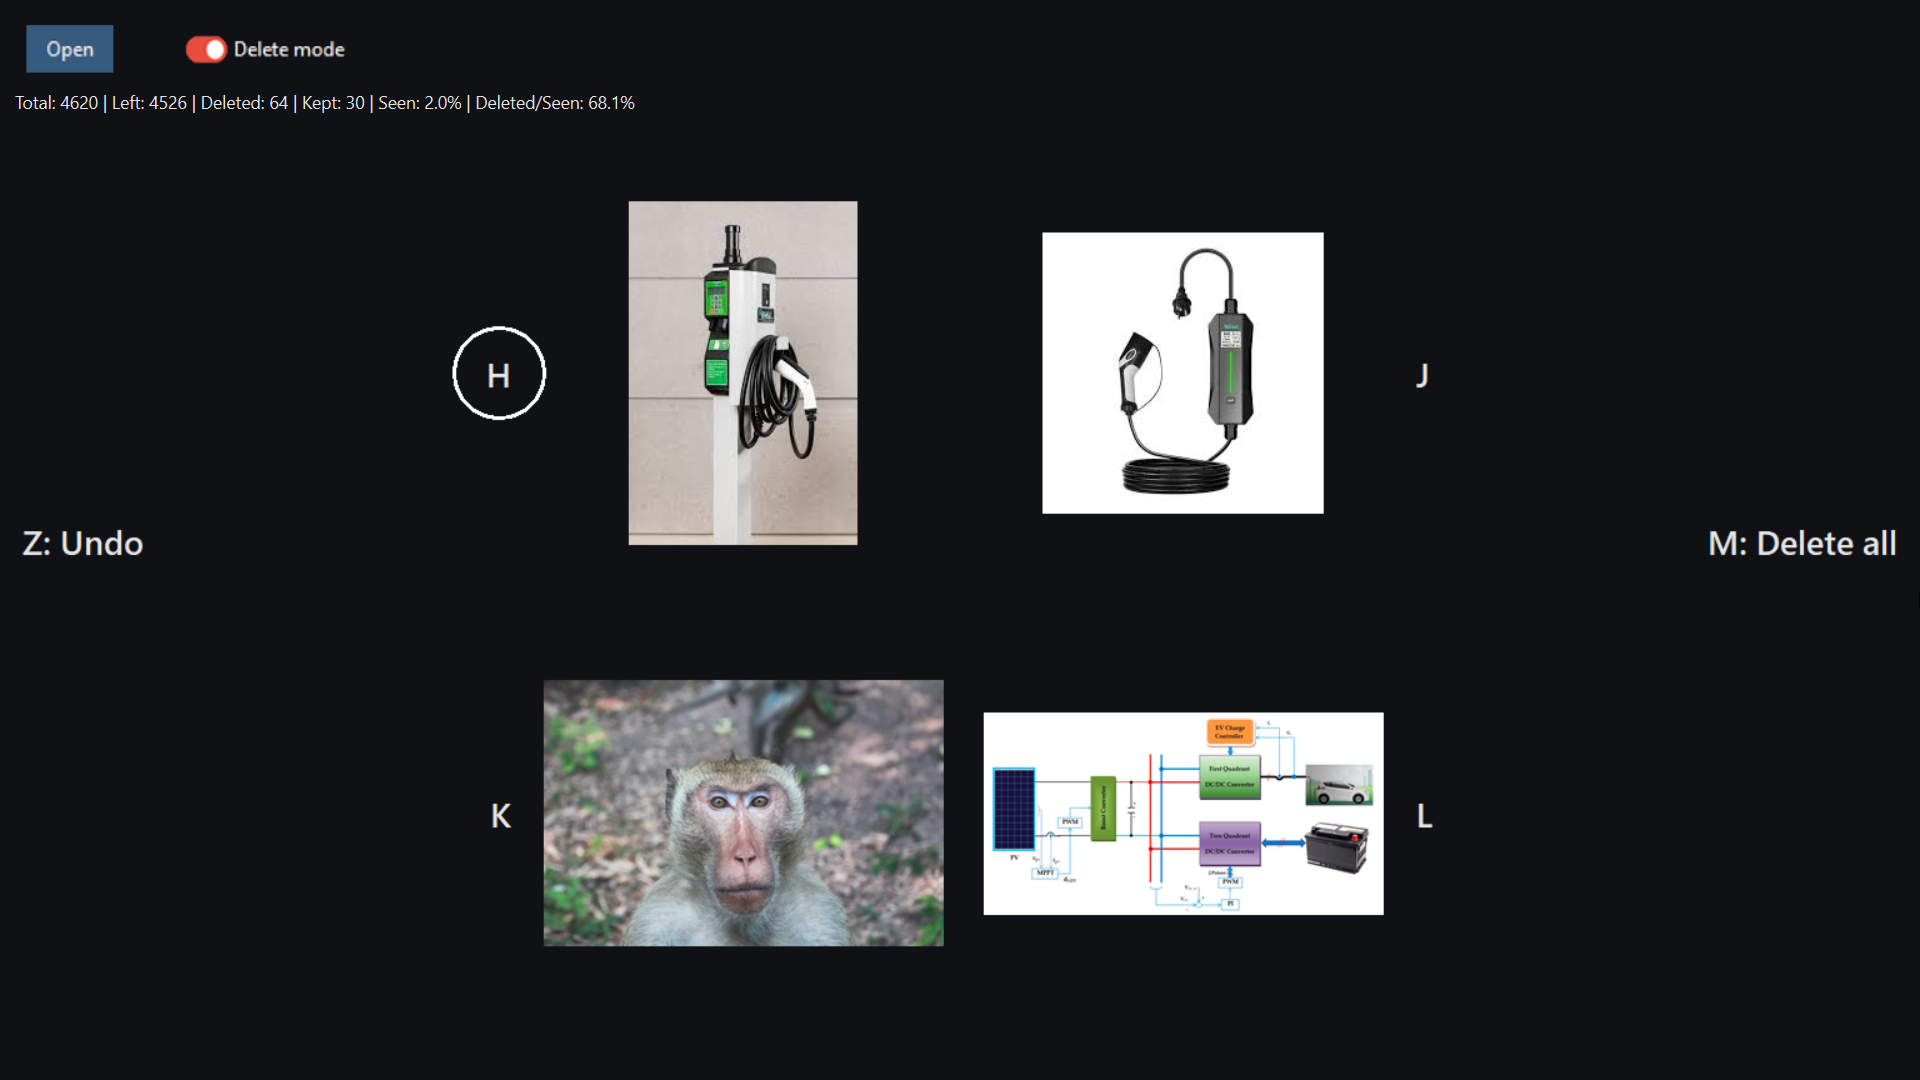
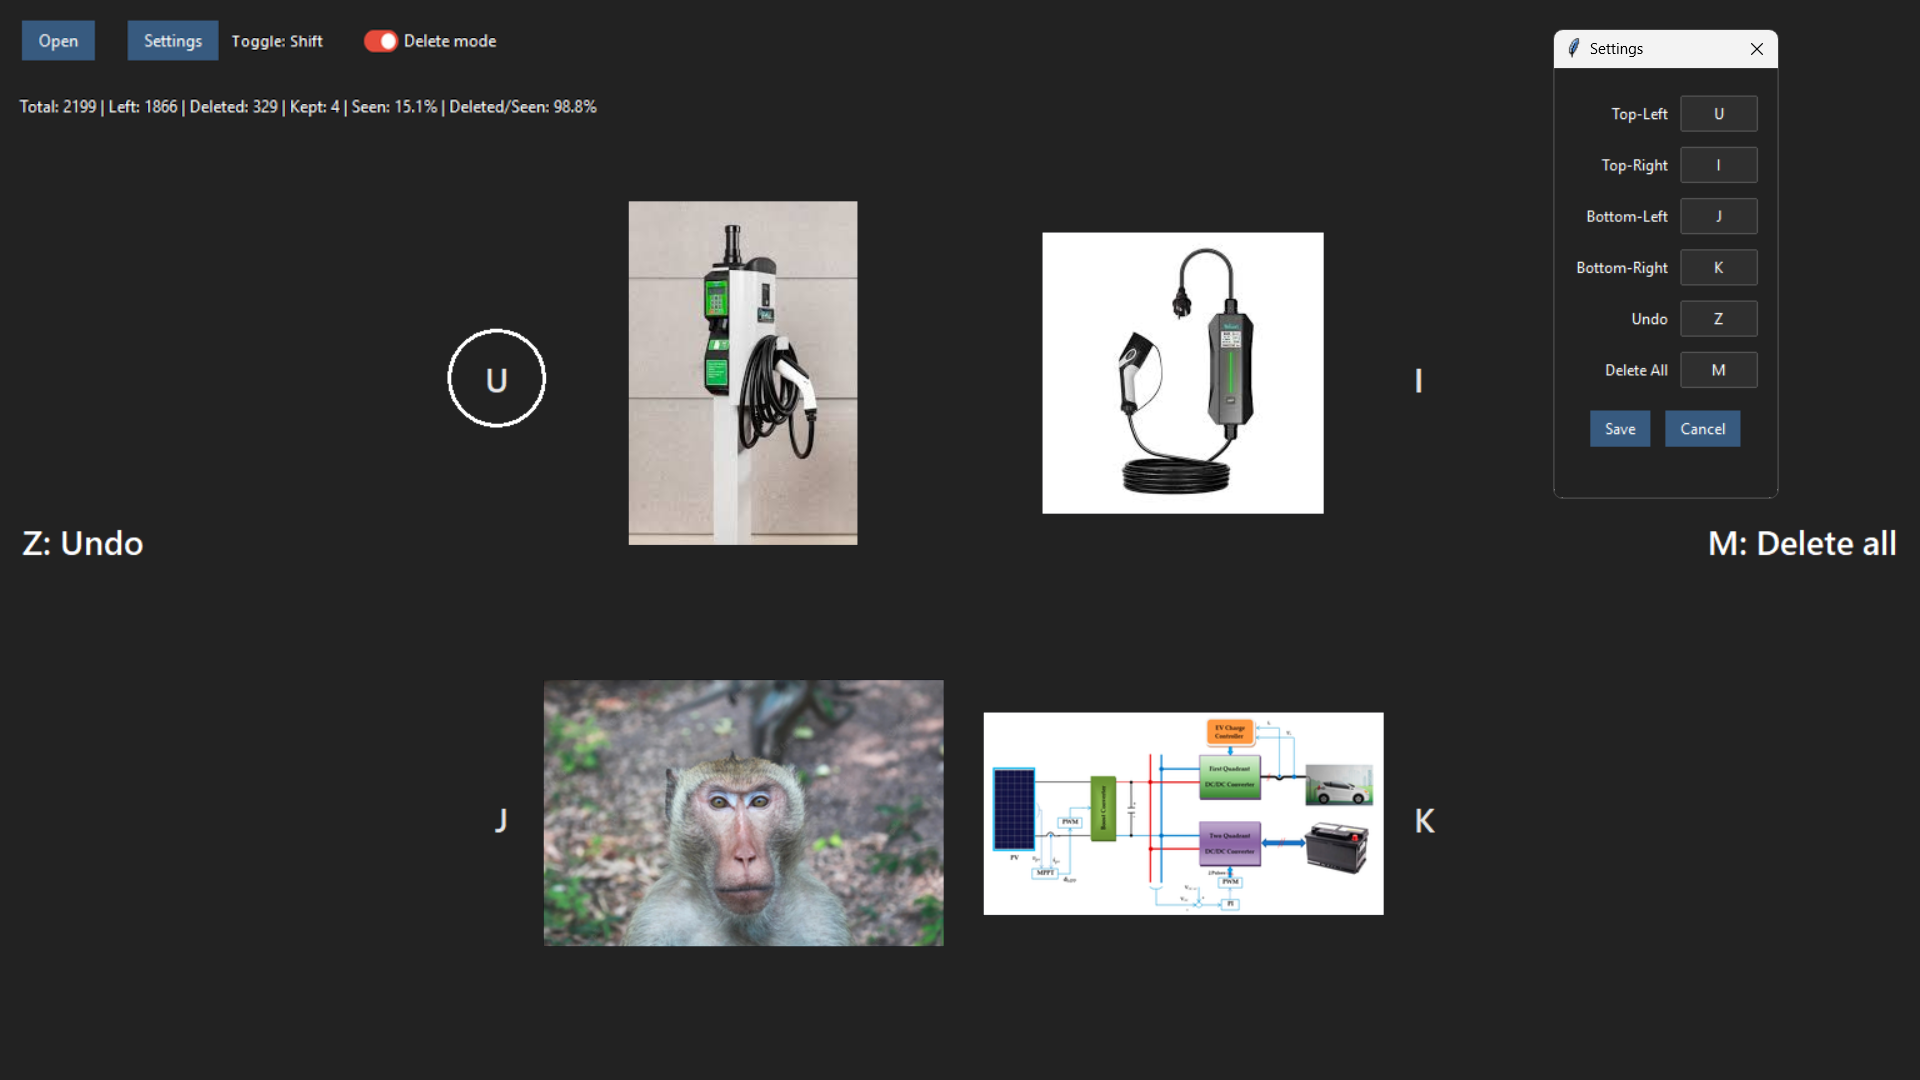
feat: shift toggle

diff --git a/README.md b/README.md
@@ -8,15 +8,15 @@ Open a folder, view four thumbnails, delete with hotkeys, undo, calculate stats.
 ## Features
 
 - Fullscreen, centered 2x2 grid with normalized thumbnails
-- Hotkeys for deleting and restoring images
-- Click a thumbnail to open in the system viewer
+- Hotkeys for deleting; opening and restoring images
+- Clickable thumbnails to open in the system viewer
 - calculate and refresh current session statistics
 - Sends deletions to system trash, instant backfill
-- Remember Last folder
+- Remember Last folder, toggle and config
 
 ## Usage
 
-- Hotkeys: H (top‑left), J (top‑right), K (bottom‑left), L (bottom‑right), M (delete all four), Z (undo)
+- Default Hotkeys: Shift (toggle delete/open mode), U (top‑left), I (top‑right), J (bottom‑left), K (bottom‑right), M (delete all four), Z (undo)
 
 ## Install
 
